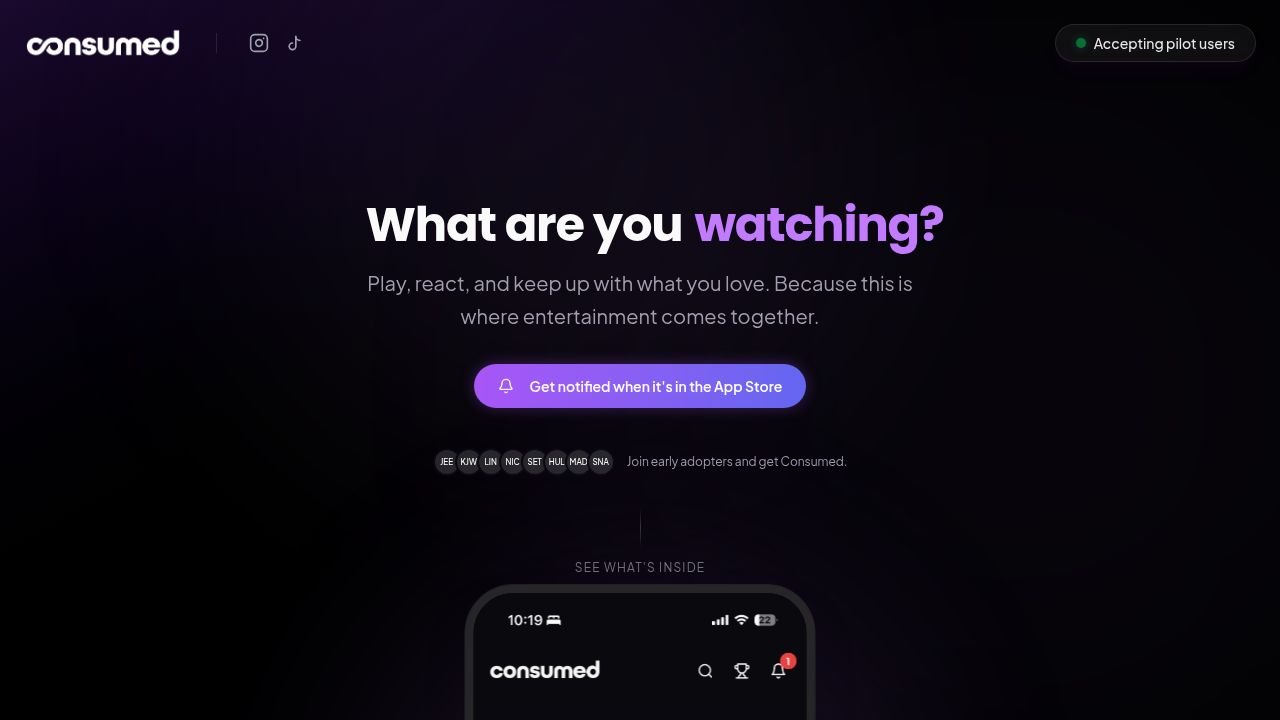
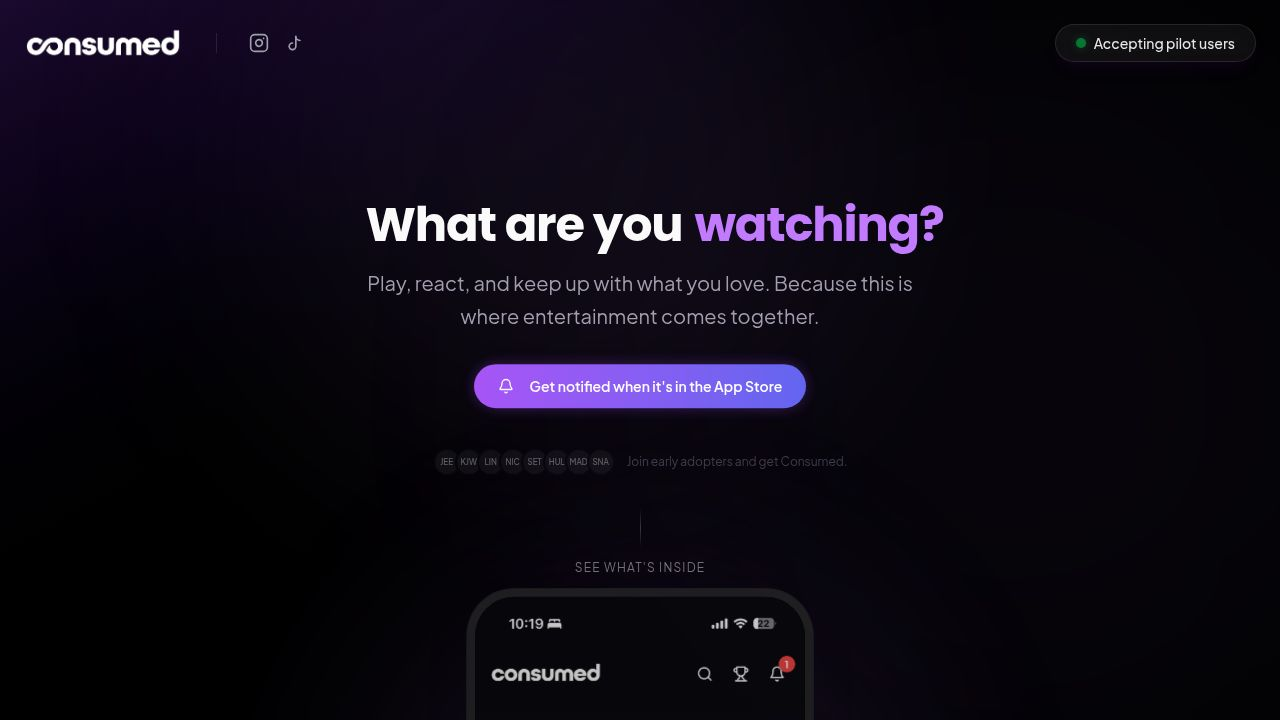
Improve button appearance and functionality on mobile devices
Adjust styling for the "Accepting pilot users" button on mobile devices by reducing text size, padding, and ensuring text does not wrap, while also updating the indicator dot size.

Replit-Commit-Author: Agent
Replit-Commit-Session-Id: 1054afe4-a81a-4bfc-9d50-b308ff59b433
Replit-Commit-Checkpoint-Type: full_checkpoint
Replit-Commit-Event-Id: 2a14b8c4-f584-4c67-b155-78dd7b8e270c
Replit-Commit-Screenshot-Url: https://storage.googleapis.com/screenshot-production-us-central1/3ba4014b-a542-439a-b8e3-25ffaea1718b/1054afe4-a81a-4bfc-9d50-b308ff59b433/j19b812
Replit-Helium-Checkpoint-Created: true

diff --git a/client/src/pages/home.tsx b/client/src/pages/home.tsx
@@ -135,10 +135,10 @@ export default function Home() {
             href="https://app.consumedapp.com" 
             target="_blank" 
             rel="noopener noreferrer"
-            className="flex items-center space-x-2 bg-white/5 border border-white/10 rounded-full px-5 py-2 backdrop-blur-sm shadow-lg shadow-purple-900/10 hover:bg-white/10 transition-colors"
+            className="flex items-center space-x-2 bg-white/5 border border-white/10 rounded-full px-3 py-1.5 md:px-5 md:py-2 backdrop-blur-sm shadow-lg shadow-purple-900/10 hover:bg-white/10 transition-colors"
           >
-            <span className="flex h-2.5 w-2.5 rounded-full bg-green-500 animate-pulse shadow-[0_0_10px_rgba(34,197,94,0.5)]"></span>
-            <span className="text-sm font-medium text-white/90 font-body">Accepting pilot users</span>
+            <span className="flex h-2 w-2 md:h-2.5 md:w-2.5 rounded-full bg-green-500 animate-pulse shadow-[0_0_10px_rgba(34,197,94,0.5)] flex-shrink-0"></span>
+            <span className="text-xs md:text-sm font-medium text-white/90 font-body whitespace-nowrap">Accepting pilot users</span>
           </a>
         </motion.div>
       </nav>
